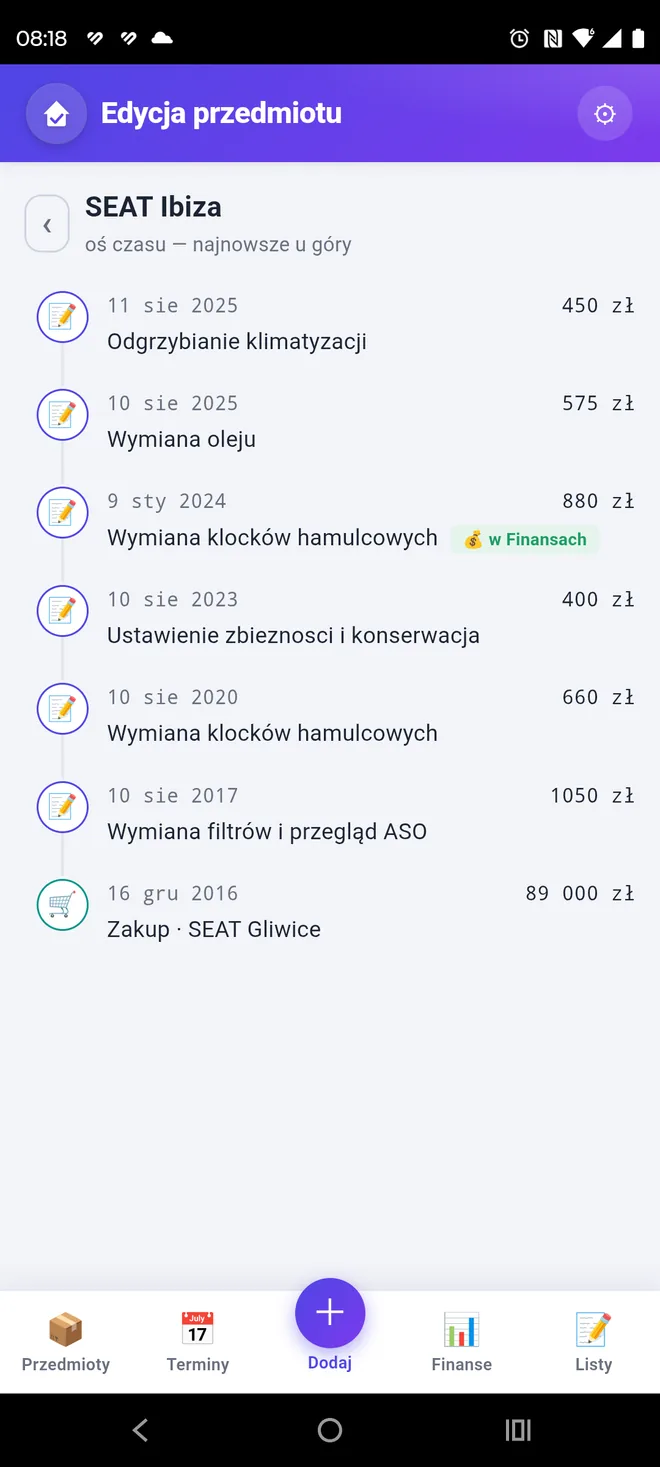
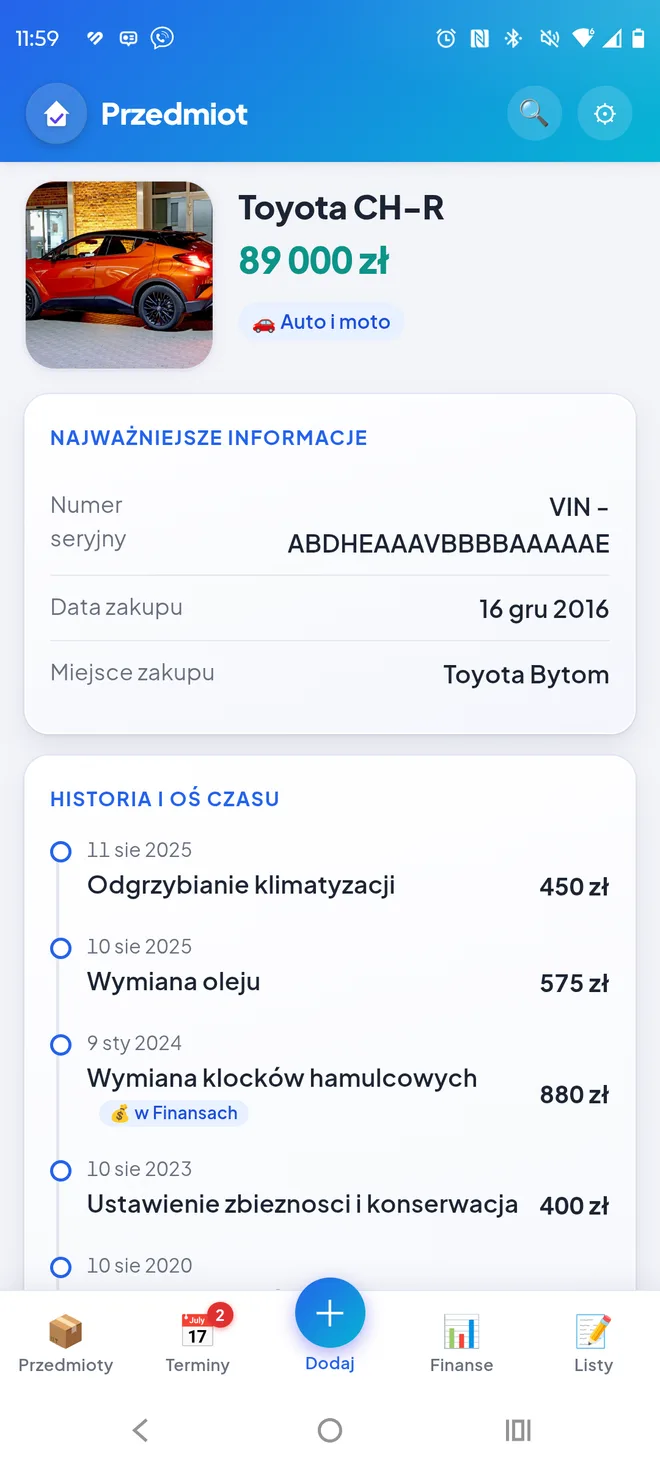
Aktualizacja zrzutów PL: nowy wygląd (paski systemowe w kolorze aplikacji)
- Podmiana 7 zrzutów PL na nowe (dashboard, items, deadlines, shopping,
  packing, habits, history) — nowy wygląd z paskami systemu w kolorze apki
- history: jedna klatka zamiast galerii 2-klatkowej (usunięto history-2.webp
  i data-frames w index.html)
- Usunięto stare, nieużywane pliki PNG ze screens/ (strona działa na webp)

diff --git a/index.html b/index.html
@@ -597,7 +597,7 @@
           </figure>
 <figure class="screen-slide">
             <div class="screen-caption"><strong>Każda naprawa zapisana</strong><span>Oś czasu przedmiotu i koszty</span></div>
-            <div class="phone phone-gallery"><img src="/screens/history.webp" width="660" height="1467" loading="lazy" decoding="async" alt="Oś czasu samochodu w Domowiku: przeglądy, naprawy i zakup z kosztami" data-frames="/screens/history.webp|/screens/history-2.webp" data-alts="Oś czasu samochodu w Domowiku: przeglądy, naprawy i zakup z kosztami|Pełna historia napraw samochodu w Domowiku: odgrzybianie klimatyzacji, wymiana oleju i klocków, przegląd ASO oraz zakup z kosztami"></div>
+            <div class="phone phone-gallery"><img src="/screens/history.webp" width="660" height="1467" loading="lazy" decoding="async" alt="Karta przedmiotu w Domowiku: samochód z wartością, numerem VIN, datą i miejscem zakupu oraz osią historii napraw z kosztami"></div>
           </figure>
 </div>
       </div>
